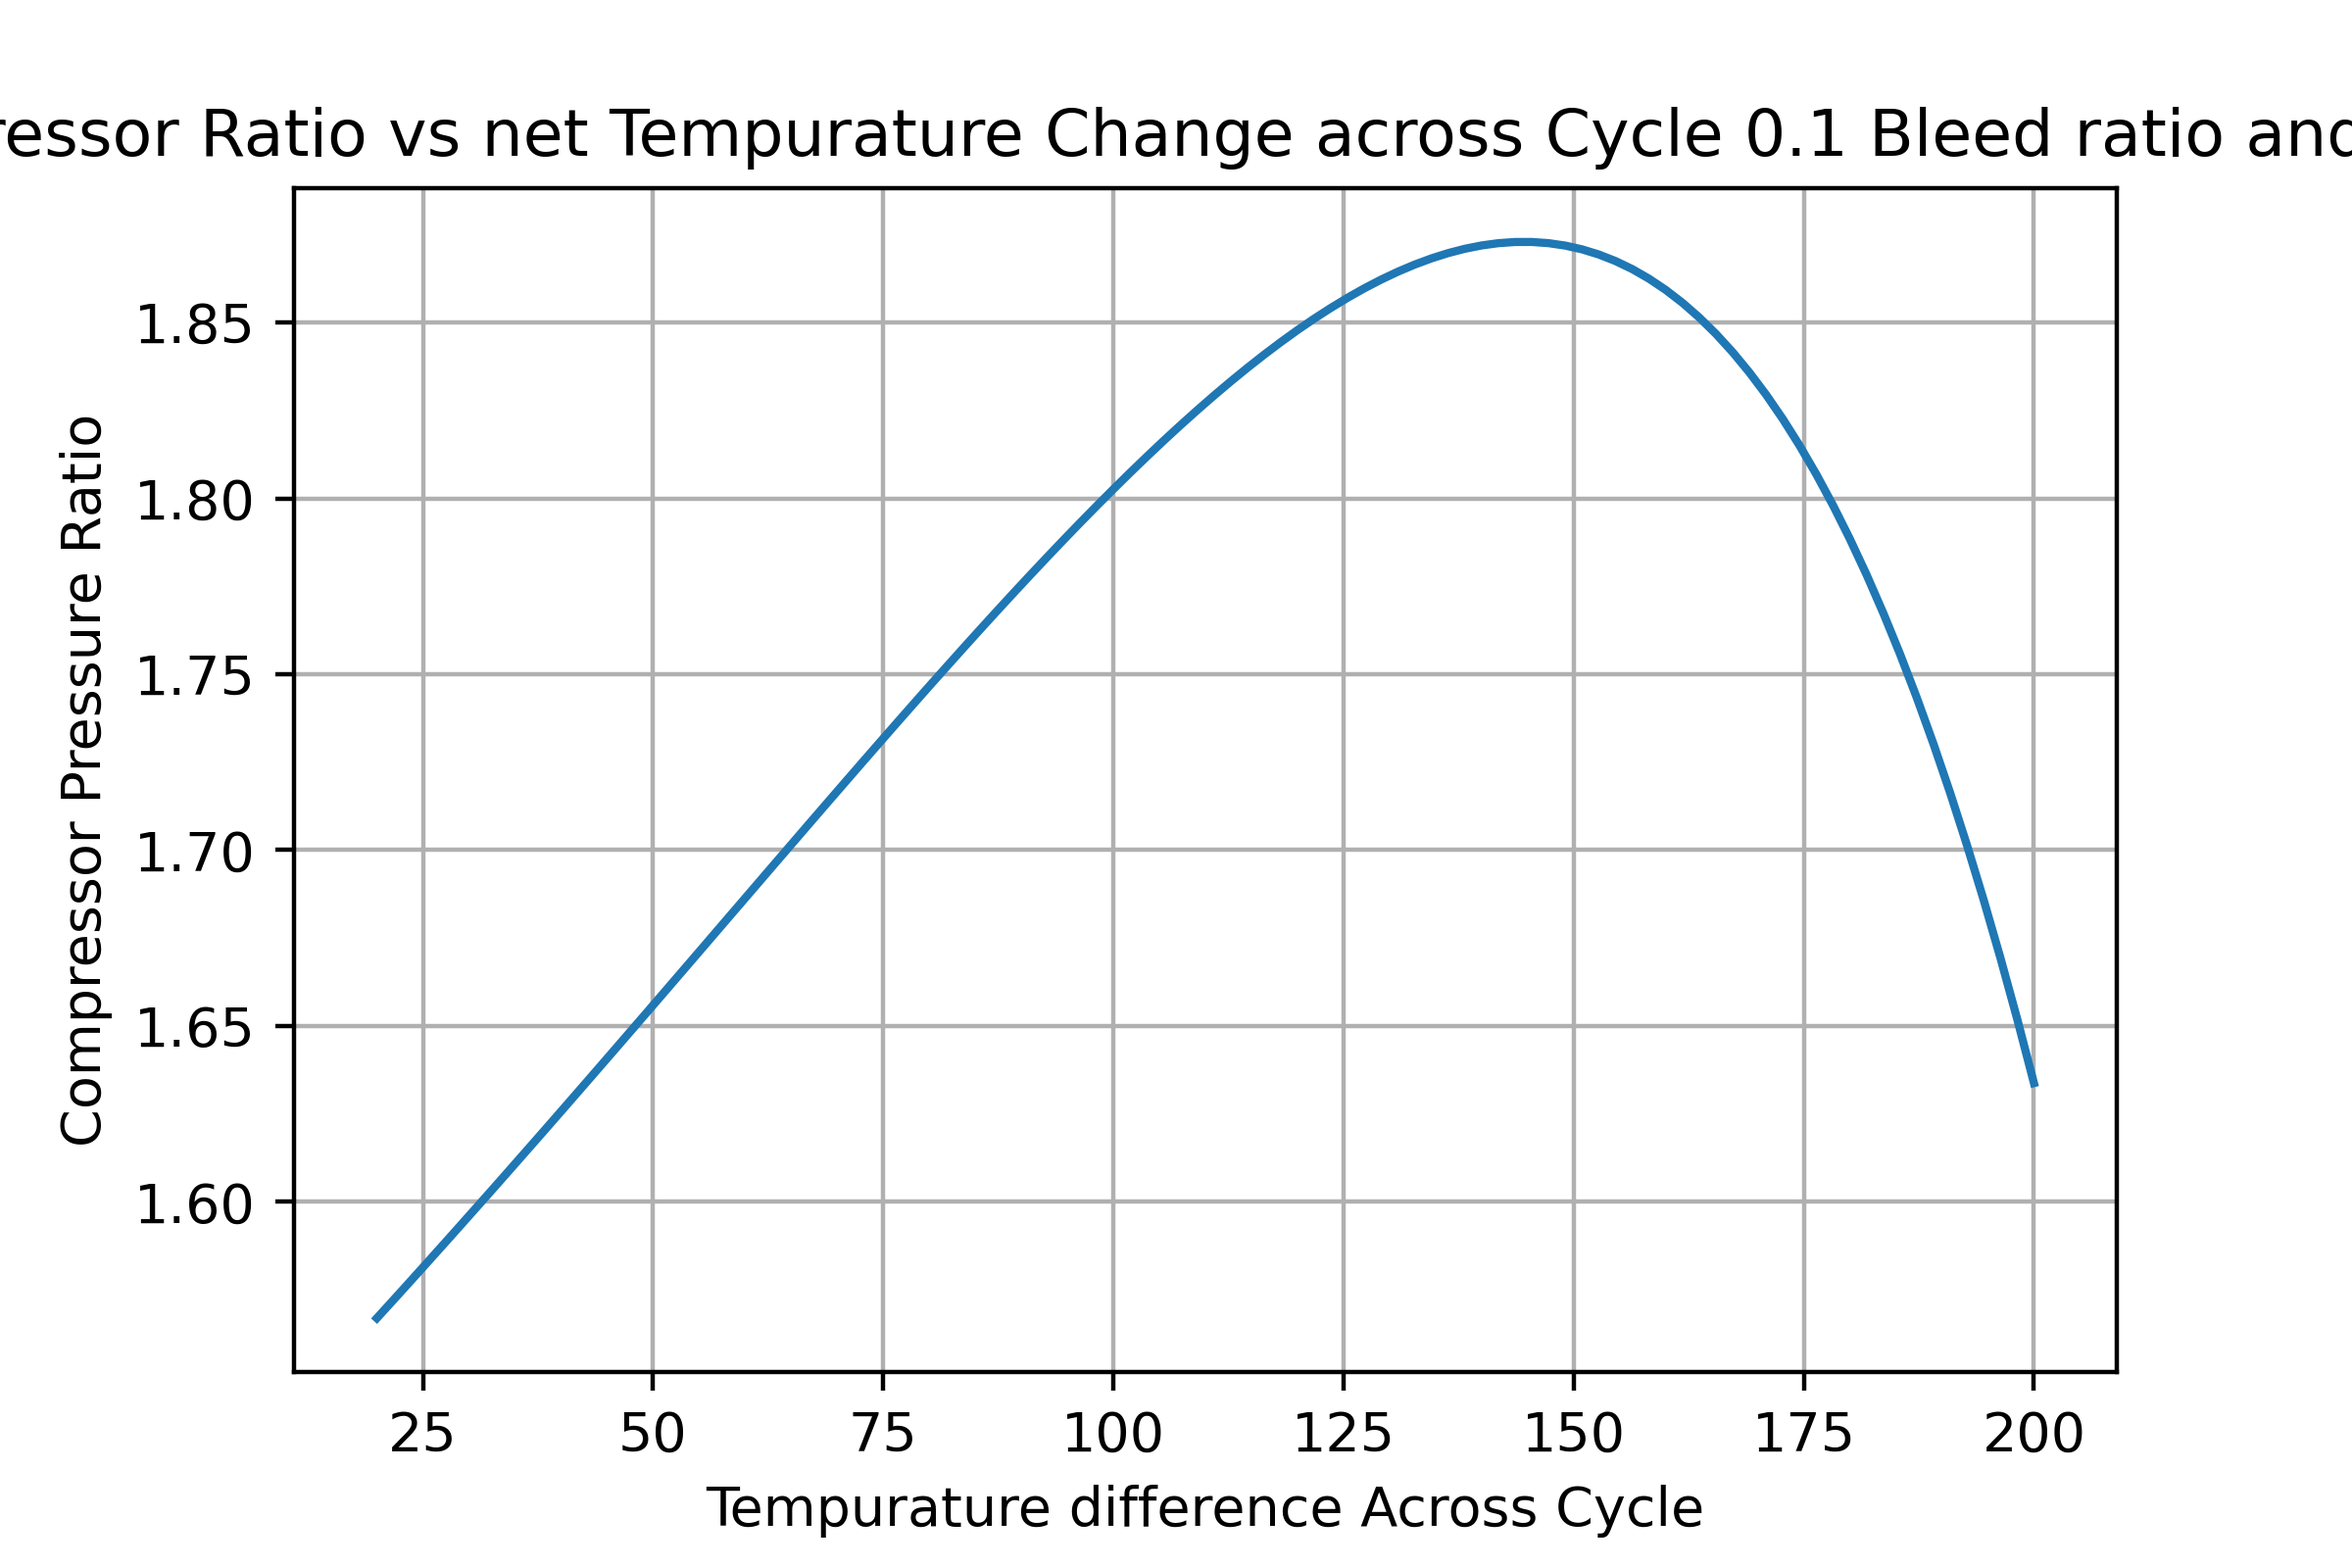
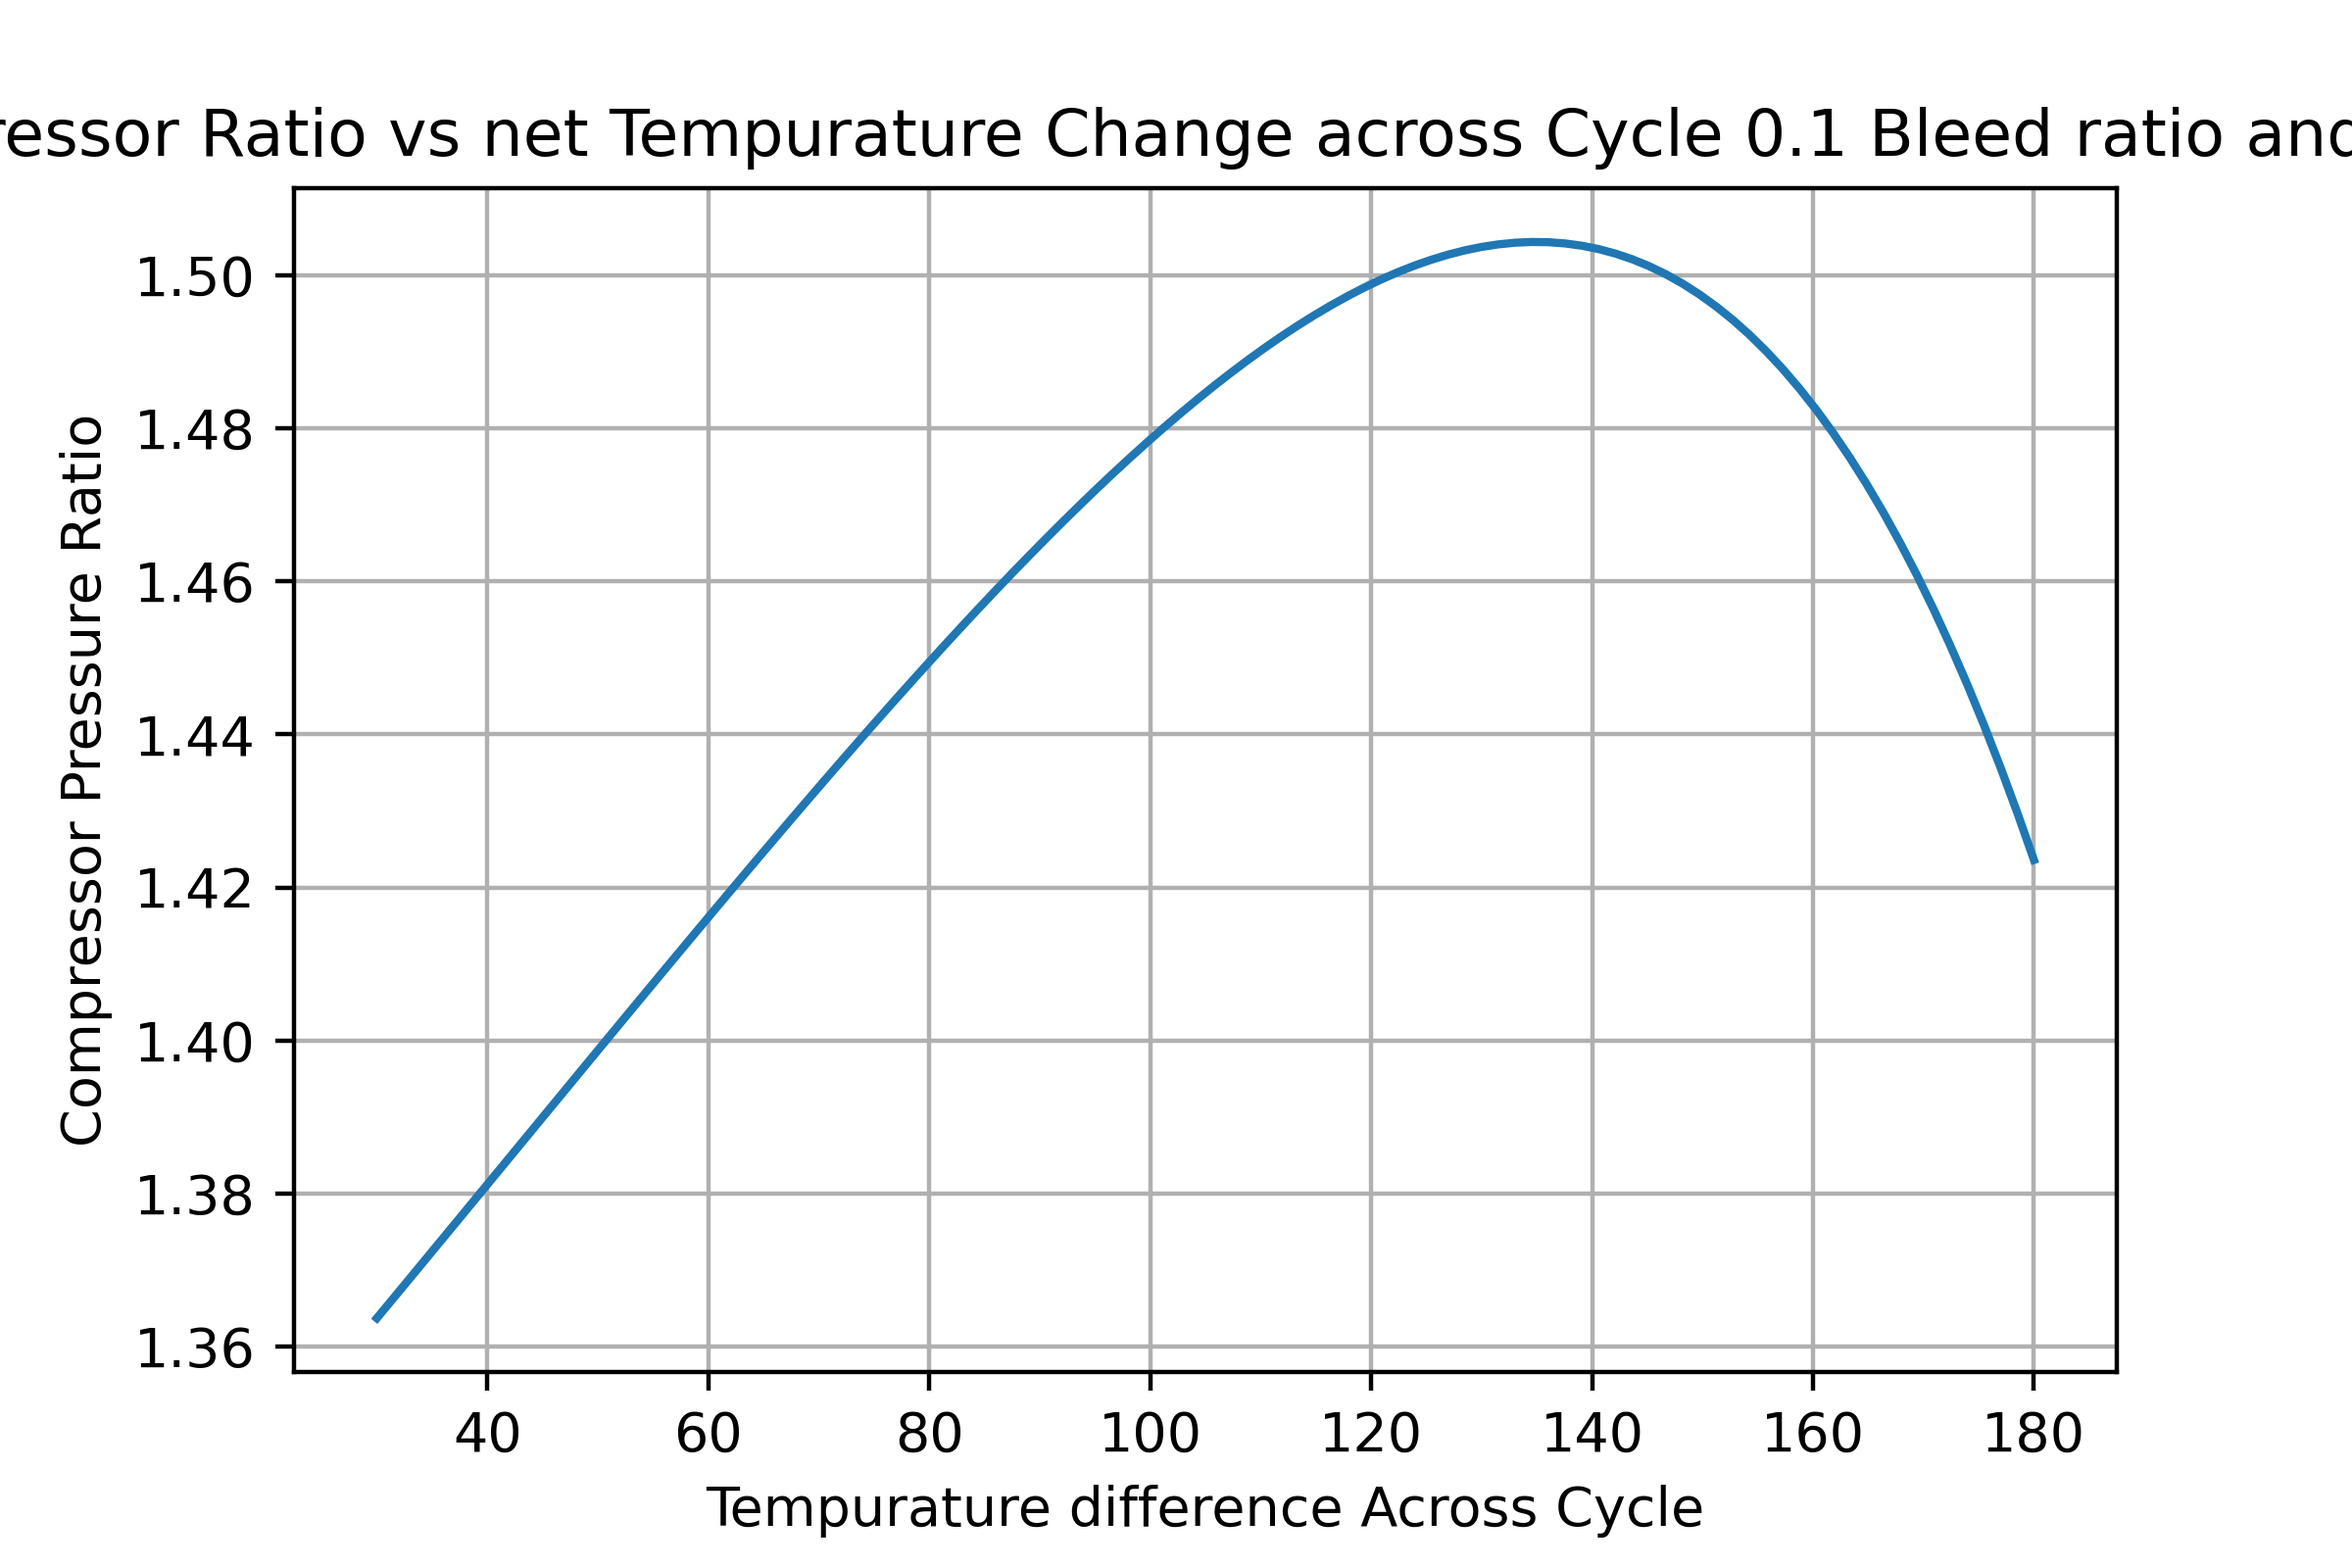
some playing around with numbers

diff --git a/Cycle_Analysis_2.py b/Cycle_Analysis_2.py
@@ -94,25 +94,26 @@ def T_to_P_ratio(Tmin, Tmax, gamma):
     return Pr
 
 def pump_work(rho, pmin, pmax):
-    "Assuming constant density fluid (very genrous assumption will need to be worked on"
-    pump_specific_power =(1/rho)*(pmax-pmin)/1000
+    """Assuming constant density fluid (more or less true until critical point
+    at which rho increases so this should be an overestimate of required power)"""
+    pump_specific_power =(1/rho)*(pmax-pmin)/1000 #kJ/kg/s
     return pump_specific_power
     
 
-p_ambiant = 101325 #Pa
+p_ambiant = 26200 #Pa
 T_ambiant = 298.15 #K
 
 cp_100_coeff = cp_polyfit(100, 2, path_pentane)
 cp_50_K = cp_integrand(500, cp_100_coeff)
 
 "Calculating Pump Work"
-rho = 600 #at 320K, more or less constant with pressure change
+rho = 600 #at 300K, constant with pressure change up till critical pressure (33 bar) and then increases
 pmin = 150000 #Pa, needs to be around 150 kPa or more to ensure condensation at 320K
-cooling_pressure_drop = 300000 #Pressure drop over fuel cooling channels
+cooling_pressure_drop = 600000 #Pressure drop over fuel cooling channels
 heating_pressure_drop = 600000 #Pressure drop over fuel heating channels
 cp_air_coeff = cp_polyfit(100, 4, path_air) #air cp is ~constant with pressure changes
-bleed_ratio = 0.18
-OF = 48
+bleed_ratio = 0.1
+OF = 150
 
 "Calculating Turbine Work"
 Tmax_list = np.linspace(350, 500, 100) #K
@@ -121,8 +122,8 @@ comp_pr = []
 Tmin = 320 #K
 for Tmax in Tmax_list:
     turbine_specific_power = turbine_work(Tmin, Tmax, cp_100_coeff, True) 
-    "Assuming cp is only varies with tempurature across the turbine"
-    "Resonable assumption as long as there is no phase change"
+    "Assuming cp only varies with tempurature across the turbine"
+    "Resonable approximation as long as there is no phase change"
     turbine_pressure_ratio = T_to_P_ratio(Tmin, Tmax , 1.09)
     print("Turbine Pressure Ratio: ", turbine_pressure_ratio)
     turb_pr.append(turbine_pressure_ratio)
@@ -157,7 +158,17 @@ plt.plot(turb_pr, comp_pr, label = "Compressor Pressure Ratio")
 plt.ylabel("Compressor Pressure Ratio")
 plt.xlabel("Turbine Pressure Ratio")
 plt.grid()
-plt.savefig('Comp_vs_Turb_0.15_bleed.png', dpi = 400)
+plt.savefig('Comp_vs_Turb_0.15_bleed_10km.png', dpi = 400)
+plt.show()
+
+plt.figure(2)
+plt.title("Compressor Ratio vs net Tempurature Change across Cycle "+str(bleed_ratio)+" Bleed ratio and "+str(OF)+" OF")
+plt.plot(Tmax_list-Tmin, comp_pr, label = "Compressor Pressure Ratio")
+#plt.plot(turb_pr, Tmax_list, label = "Compressor Pressure Ratio")
+plt.ylabel("Compressor Pressure Ratio")
+plt.xlabel("Tempurature difference Across Cycle")
+plt.grid()
+plt.savefig('Comp_vs_delta_T_0.1_bleed_10km.png', dpi = 400)
 plt.show()
 
 

diff --git a/CEA_results.py b/CEA_results.py
@@ -28,7 +28,7 @@ plt.plot(P_c, isp, label = "isp")
 plt.ylabel("isp (m/s)")
 plt.xlabel("Chamber Pressure [Bars]")
 plt.grid()
-plt.savefig('isp_vs_Pc.png', dpi = 400)
+#plt.savefig('isp_vs_Pc.png', dpi = 400)
 plt.show()
 
 plt.figure(4)
@@ -38,7 +38,7 @@ plt.plot(P_c, vj, label = "isp")
 plt.ylabel("v_j [m/s]")
 plt.xlabel("Compressor Pressure Ratio")
 plt.grid()
-plt.savefig('v_j_vs_Pc.png', dpi = 400)
+#plt.savefig('v_j_vs_Pc.png', dpi = 400)
 plt.show()
 
 print(isp)
@@ -55,7 +55,7 @@ plt.plot(OF_2, isp_2, label = "isp")
 plt.ylabel("isp (m/s)")
 plt.xlabel("OF ratio")
 plt.grid()
-plt.savefig('isp_vs_OF.png', dpi = 400)
+#plt.savefig('isp_vs_OF.png', dpi = 400)
 plt.show()
 
 P_c = 1.52
@@ -71,7 +71,7 @@ plt.plot(OF_3, isp_3, label = "isp")
 plt.ylabel("isp (m/s)")
 plt.xlabel("OF ratio")
 plt.grid()
-plt.savefig('isp_vs_OF_2.png', dpi = 400)
+#plt.savefig('isp_vs_OF_2.png', dpi = 400)
 plt.show()
 
 
